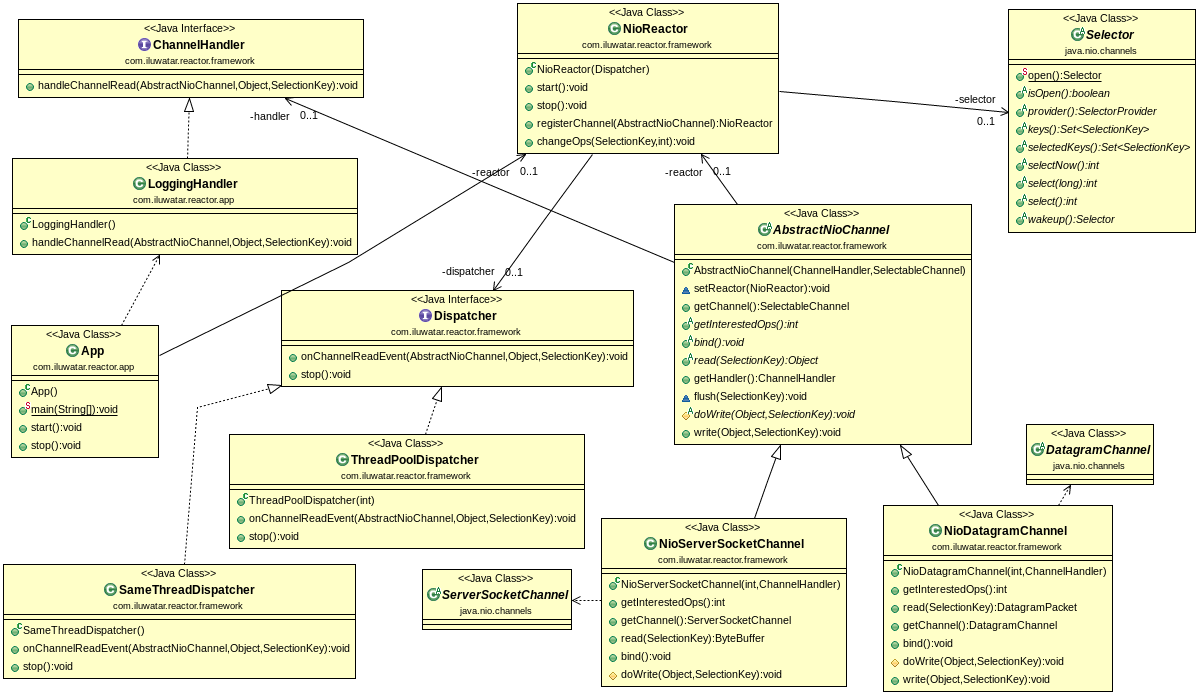
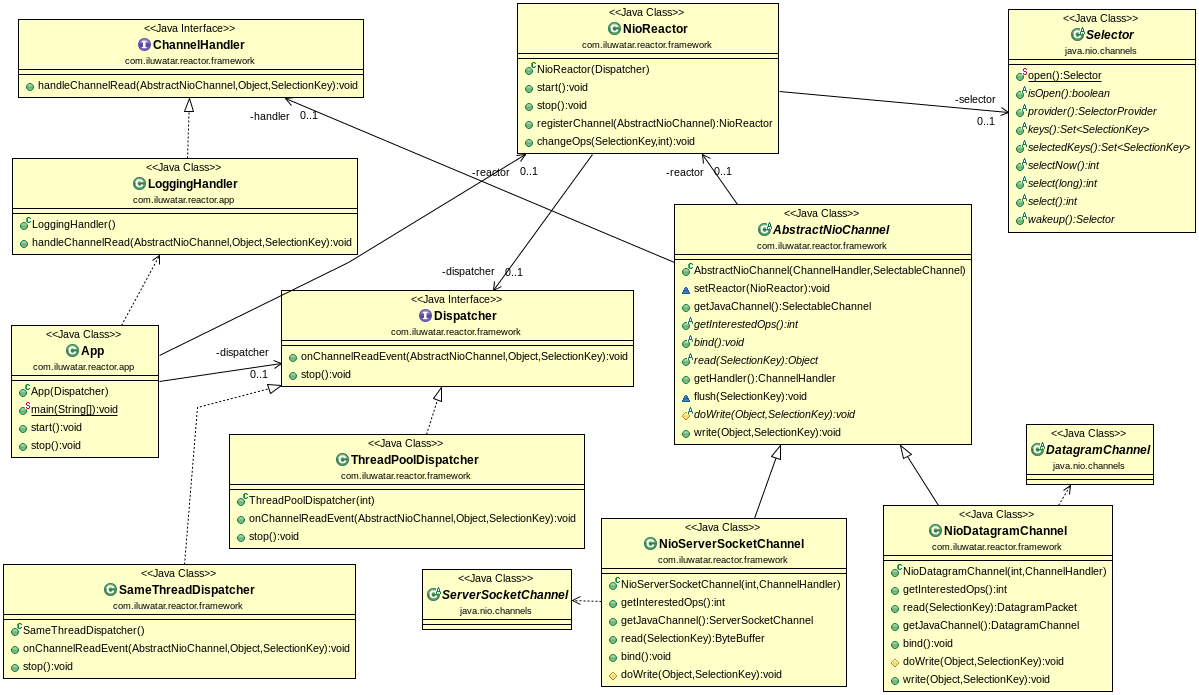
Some changes to further polish #74

diff --git a/reactor/src/main/java/com/iluwatar/reactor/app/App.java b/reactor/src/main/java/com/iluwatar/reactor/app/App.java
@@ -66,6 +66,15 @@ public class App {
 
   private NioReactor reactor;
   private List<AbstractNioChannel> channels = new ArrayList<>();
+  private Dispatcher dispatcher;
+
+  /**
+   * Creates an instance of App which will use provided dispatcher for dispatching events on reactor.
+   * @param dispatcher the dispatcher that will be used to dispatch events.
+   */
+  public App(Dispatcher dispatcher) {
+	this.dispatcher = dispatcher;
+  }
 
   /**
    * App entry.
@@ -73,16 +82,15 @@ public class App {
    * @throws IOException
    */
   public static void main(String[] args) throws IOException {
-    new App().start(new ThreadPoolDispatcher(2));
+    new App(new ThreadPoolDispatcher(2)).start();
   }
 
   /**
    * Starts the NIO reactor.
- * @param threadPoolDispatcher 
-   * 
+   *
    * @throws IOException if any channel fails to bind.
    */
-  public void start(Dispatcher dispatcher) throws IOException {
+  public void start() throws IOException {
     /*
      * The application can customize its event dispatching mechanism.
      */
@@ -110,8 +118,9 @@ public class App {
    */
   public void stop() throws InterruptedException, IOException {
     reactor.stop();
+    dispatcher.stop();
     for (AbstractNioChannel channel : channels) {
-    	channel.getChannel().close();
+    	channel.getJavaChannel().close();
     }
   }
 

diff --git a/reactor/src/main/java/com/iluwatar/reactor/framework/NioDatagramChannel.java b/reactor/src/main/java/com/iluwatar/reactor/framework/NioDatagramChannel.java
@@ -64,8 +64,8 @@ public class NioDatagramChannel extends AbstractNioChannel {
    * @return the underlying datagram channel.
    */
   @Override
-  public DatagramChannel getChannel() {
-    return (DatagramChannel) super.getChannel();
+  public DatagramChannel getJavaChannel() {
+    return (DatagramChannel) super.getJavaChannel();
   }
 
   /**
@@ -75,8 +75,8 @@ public class NioDatagramChannel extends AbstractNioChannel {
    */
   @Override
   public void bind() throws IOException {
-    getChannel().socket().bind(new InetSocketAddress(InetAddress.getLocalHost(), port));
-    getChannel().configureBlocking(false);
+    getJavaChannel().socket().bind(new InetSocketAddress(InetAddress.getLocalHost(), port));
+    getJavaChannel().configureBlocking(false);
     System.out.println("Bound UDP socket at port: " + port);
   }
 
@@ -87,7 +87,7 @@ public class NioDatagramChannel extends AbstractNioChannel {
   @Override
   protected void doWrite(Object pendingWrite, SelectionKey key) throws IOException {
     DatagramPacket pendingPacket = (DatagramPacket) pendingWrite;
-    getChannel().send(pendingPacket.getData(), pendingPacket.getReceiver());
+    getJavaChannel().send(pendingPacket.getData(), pendingPacket.getReceiver());
   }
 
   /**

diff --git a/reactor/src/main/java/com/iluwatar/reactor/framework/NioReactor.java b/reactor/src/main/java/com/iluwatar/reactor/framework/NioReactor.java
@@ -74,12 +74,13 @@ public class NioReactor {
    * Stops the reactor and related resources such as dispatcher.
    * 
    * @throws InterruptedException if interrupted while stopping the reactor.
+   * @throws IOException if any I/O error occurs.
    */
-  public void stop() throws InterruptedException {
+  public void stop() throws InterruptedException, IOException {
     reactorMain.shutdownNow();
     selector.wakeup();
     reactorMain.awaitTermination(4, TimeUnit.SECONDS);
-    dispatcher.stop();
+    selector.close();
   }
 
   /**
@@ -94,7 +95,7 @@ public class NioReactor {
    * @throws IOException if any I/O error occurs.
    */
   public NioReactor registerChannel(AbstractNioChannel channel) throws IOException {
-    SelectionKey key = channel.getChannel().register(selector, channel.getInterestedOps());
+    SelectionKey key = channel.getJavaChannel().register(selector, channel.getInterestedOps());
     key.attach(channel);
     channel.setReactor(this);
     return this;

diff --git a/reactor/src/main/java/com/iluwatar/reactor/framework/NioServerSocketChannel.java b/reactor/src/main/java/com/iluwatar/reactor/framework/NioServerSocketChannel.java
@@ -43,8 +43,8 @@ public class NioServerSocketChannel extends AbstractNioChannel {
    * @return the underlying {@link ServerSocketChannel}.
    */
   @Override
-  public ServerSocketChannel getChannel() {
-    return (ServerSocketChannel) super.getChannel();
+  public ServerSocketChannel getJavaChannel() {
+    return (ServerSocketChannel) super.getJavaChannel();
   }
 
   /**
@@ -71,8 +71,8 @@ public class NioServerSocketChannel extends AbstractNioChannel {
    */
   @Override
   public void bind() throws IOException {
-    ((ServerSocketChannel) getChannel()).socket().bind(new InetSocketAddress(InetAddress.getLocalHost(), port));
-    ((ServerSocketChannel) getChannel()).configureBlocking(false);
+    ((ServerSocketChannel) getJavaChannel()).socket().bind(new InetSocketAddress(InetAddress.getLocalHost(), port));
+    ((ServerSocketChannel) getJavaChannel()).configureBlocking(false);
     System.out.println("Bound TCP socket at port: " + port);
   }
 

diff --git a/reactor/src/test/java/com/iluwatar/reactor/app/AppTest.java b/reactor/src/test/java/com/iluwatar/reactor/app/AppTest.java
@@ -22,8 +22,8 @@ public class AppTest {
    */
   @Test
   public void testAppUsingThreadPoolDispatcher() throws IOException, InterruptedException {
-    App app = new App();
-    app.start(new ThreadPoolDispatcher(2));
+    App app = new App(new ThreadPoolDispatcher(2));
+    app.start();
 
     AppClient client = new AppClient();
     client.start();
@@ -48,8 +48,8 @@ public class AppTest {
    */
   @Test
   public void testAppUsingSameThreadDispatcher() throws IOException, InterruptedException {
-    App app = new App();
-    app.start(new SameThreadDispatcher());
+    App app = new App(new SameThreadDispatcher());
+    app.start();
 
     AppClient client = new AppClient();
     client.start();

diff --git a/reactor/src/main/java/com/iluwatar/reactor/framework/AbstractNioChannel.java b/reactor/src/main/java/com/iluwatar/reactor/framework/AbstractNioChannel.java
@@ -48,7 +48,7 @@ public abstract class AbstractNioChannel {
   /**
    * @return the wrapped NIO channel.
    */
-  public SelectableChannel getChannel() {
+  public SelectableChannel getJavaChannel() {
     return channel;
   }
 
